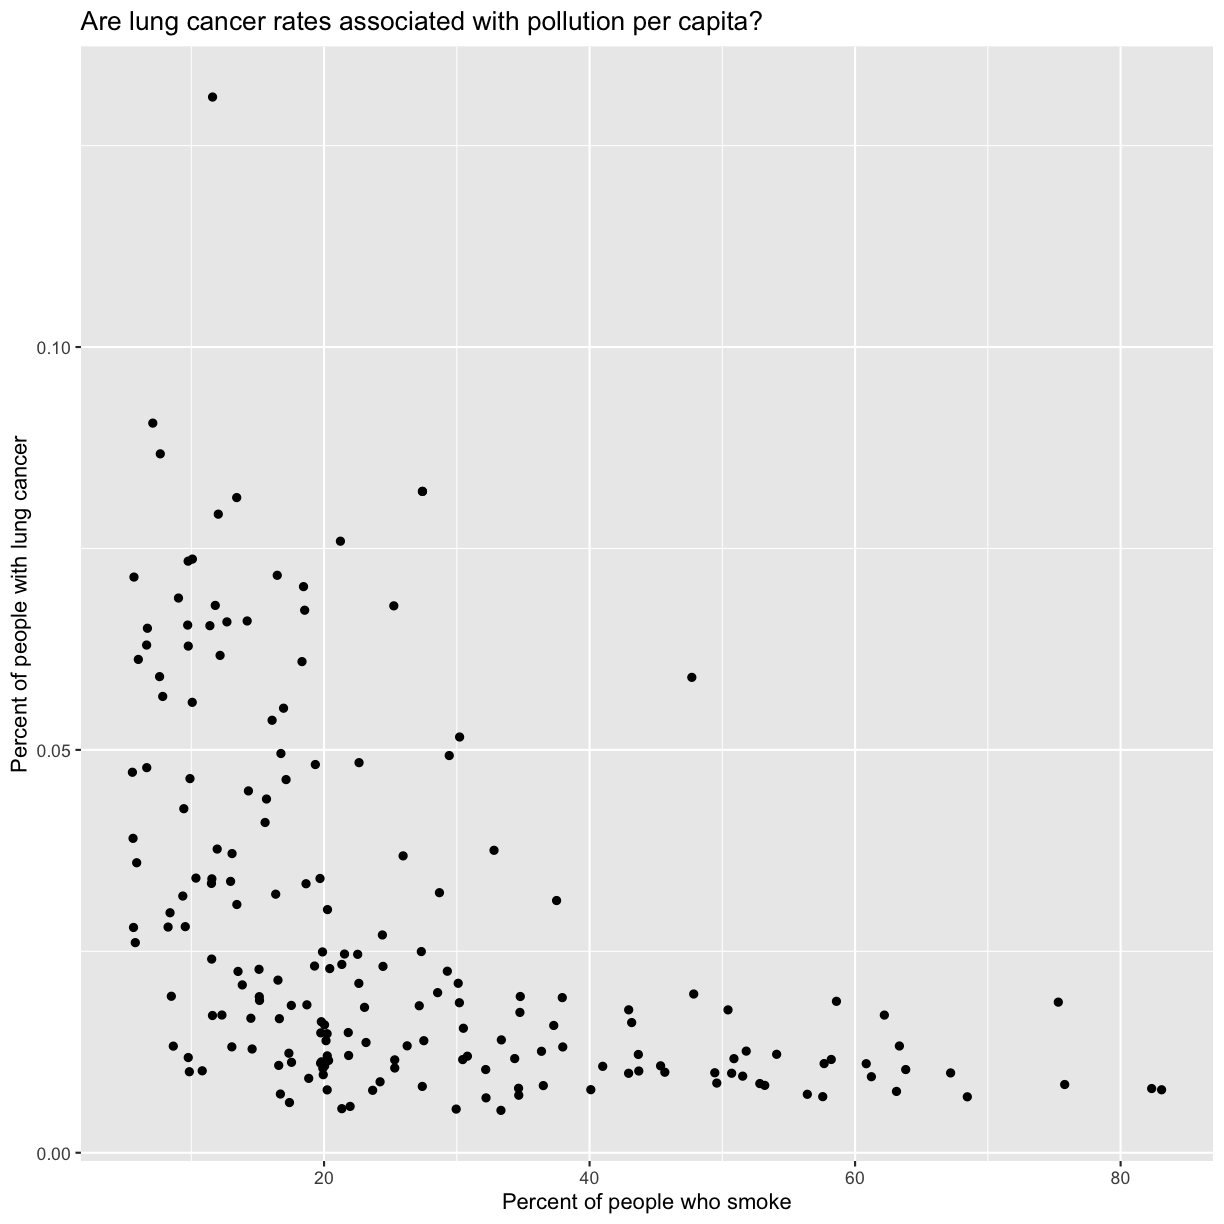
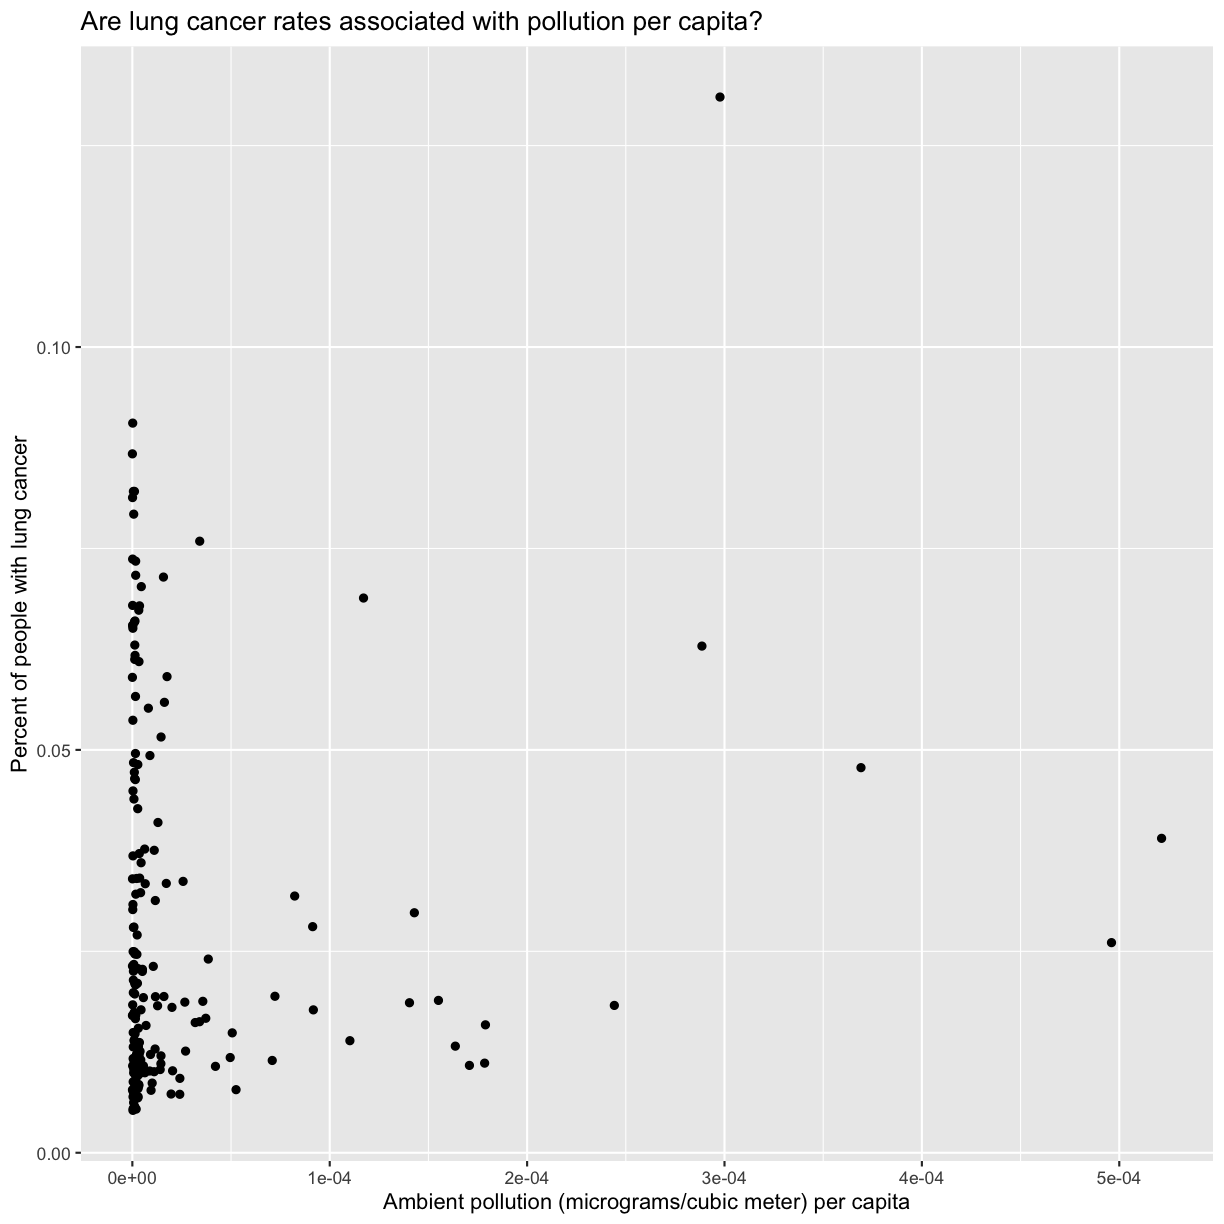
Update md

diff --git a/_episodes/05-r-markdown.md b/_episodes/05-r-markdown.md
@@ -468,9 +468,15 @@ Or, even better, you can just make them all `1.` and markdown will be smart enou
 ```
 
 > ## Add to our report: association between air pollution and lung cancer
-> We have a pretty nice looking report, but we still haven't included anything about the association between lung cancer and air pollution per capita. Create a new code chunk and make 1) a plot with air pollution per capita on the x axis and lung cancer on the y axis, and 2) a table with summary statistics including the minimum, median, and maximum air pollution values. BONUS: Merge the table we created earlier with the table you created here with a column for smoking or air pollution, and a column for each of the summary statistics. 
+> We have a pretty nice looking report, but we still haven't included anything about the association between lung cancer and air pollution per capita. Let's add a section to our markdown document in the following steps:
+1. Make a new header and write a 1-2 sentence description of what you will be plotting.
+1. Create a new code chunk
+1. Make a plot with air pollution per capita on the x axis and lung cancer on the y axis
+1. Make a table with summary statistics including the minimum, median, and maximum air pollution values. 
+1. BONUS: Merge the table we created earlier with the table you created here with rows for smoking and air pollution, and a column for each of the summary statistics. 
+
 > > ## Solution
-> > One option to create a code chunk is to type it out, you can also see other options above. 
+> > One option to create a code chunk is to type it out. You can also see other options above. 
 > > Then you have to read in the data and create the plot and table: 
 > > 
 > > ~~~
@@ -496,9 +502,9 @@ Or, even better, you can just make them all `1.` and markdown will be smart enou
 > > 
 > > ~~~
 > > smoking_pollution %>%
-> >   ggplot(aes(x = pollution, y = lung_cancer_pct)) + 
+> >   ggplot(aes(x = pollution/pop, y = lung_cancer_pct)) + 
 > >   geom_point() +
-> >   labs(x = "Percent of people who smoke", y = "Percent of people with lung cancer",
+> >   labs(x = "Ambient pollution (micrograms/cubic meter) per capita", y = "Percent of people with lung cancer",
 > >        title = "Are lung cancer rates associated with pollution per capita?")
 > > ~~~
 > > {: .language-r}
